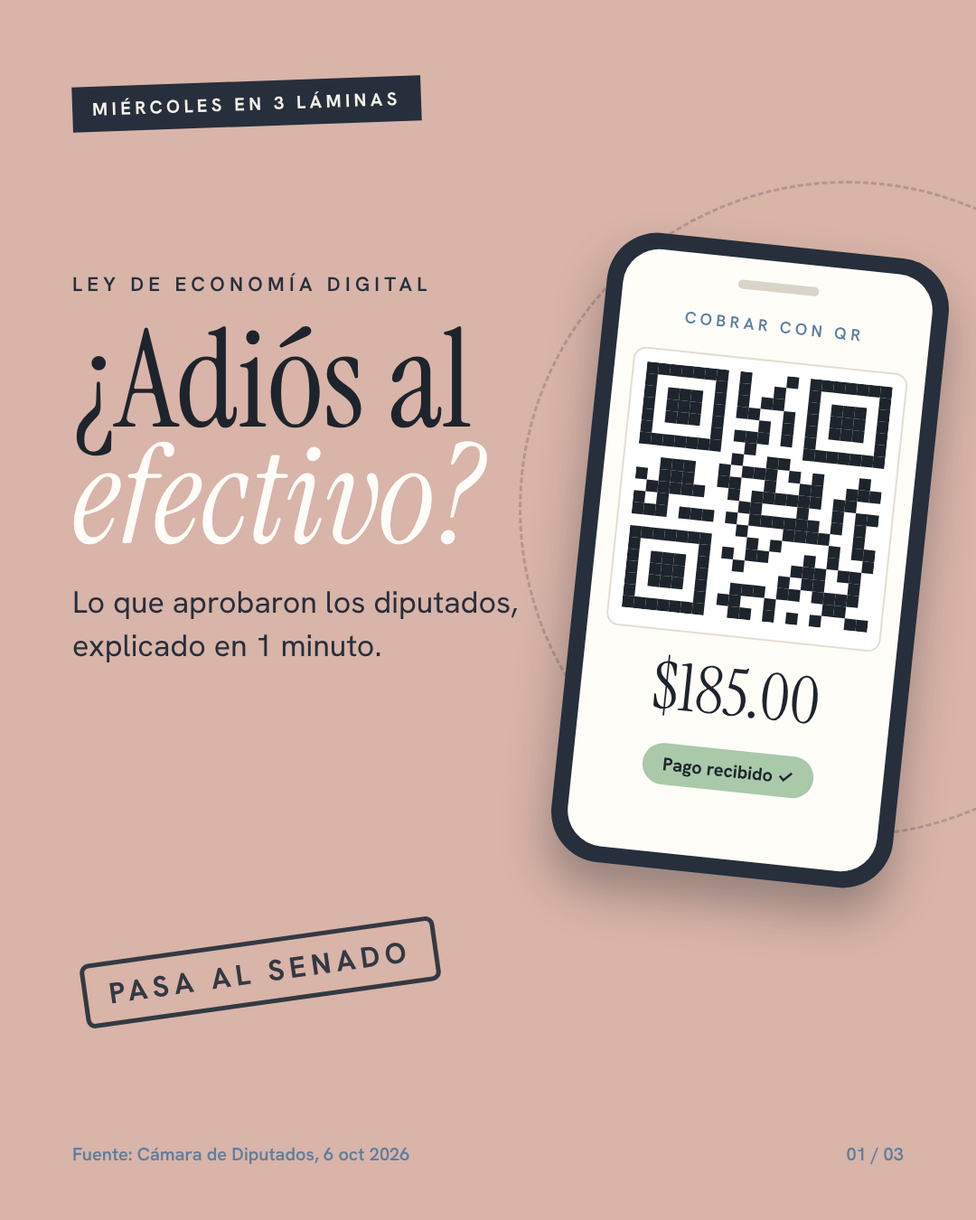
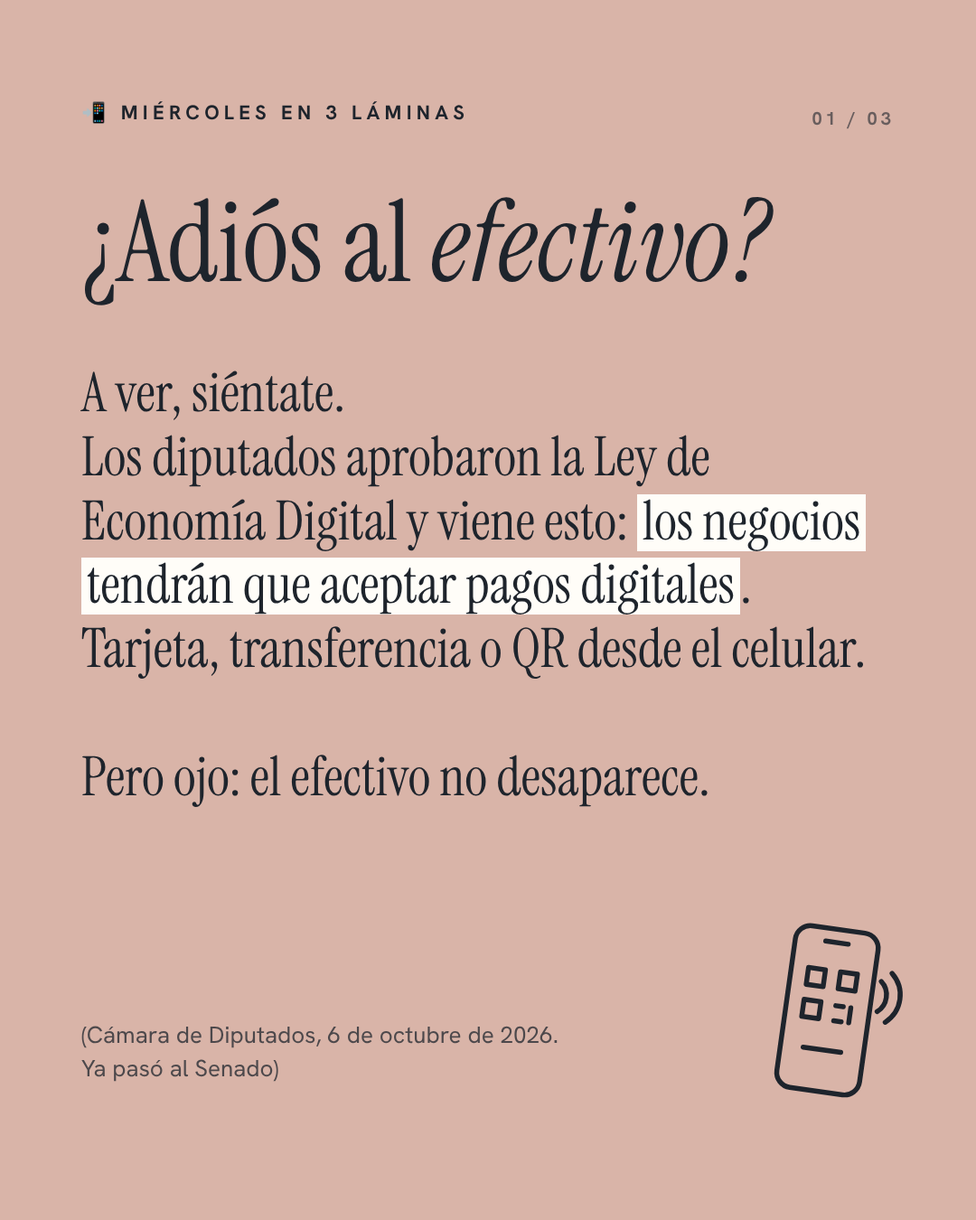
Miércoles en 3 láminas v2: estilo Chismesito, sin fotos
Claude-Session: https://claude.ai/code/session_01J2dboEZNzBYhxcXmwSfC74

diff --git a/recursos/plantillas/Ecd-01.dc.html b/recursos/plantillas/Ecd-01.dc.html
@@ -1,55 +1,31 @@
 <!doctype html>
-<html lang="es">
-<head>
-<meta charset="utf-8">
-<title>Ley de Economía Digital · Portada</title>
-<script src="./support.js"></script>
-</head>
-<body>
+<html lang="es"><head><meta charset="utf-8"><title>Ley de Economía Digital · Gancho</title></head><body>
 <x-dc>
 <helmet>
 <link rel="stylesheet" href="https://fonts.googleapis.com/css2?family=Instrument+Serif:ital@0;1&amp;family=Hanken+Grotesk:wght@400;500;600;700&amp;display=swap">
 <style>
 body{margin:0}
-a{color:inherit}
-.bg-lino{background-color:#EEEAE1;background-image:url(/_blob/6c9eecc651dcae0e49c6e32a51e1513e);background-size:cover}
-.bg-papel{background-color:#F4F1EA;background-image:linear-gradient(rgba(95,126,158,0.10) 1px,transparent 1px),linear-gradient(90deg,rgba(95,126,158,0.10) 1px,transparent 1px),url(/_blob/5fe8c28b9943619ea44f604b391f1f8a);background-size:36px 36px,36px 36px,cover}
-.bg-sarga{background-color:#262F3B;background-image:url(/_blob/dadb3c074dd971422db84d954c63babd);background-size:cover}
-.hoja{background-color:#FFFDF8;background-image:linear-gradient(rgba(255,253,248,0.62),rgba(255,253,248,0.62)),url(/_blob/5fe8c28b9943619ea44f604b391f1f8a);background-size:cover}
-.sticker{filter: drop-shadow(5px 0 0 #fff) drop-shadow(-5px 0 0 #fff) drop-shadow(0 5px 0 #fff) drop-shadow(0 -5px 0 #fff) drop-shadow(0 14px 18px rgba(20,24,30,0.3))}
 .serif{font-family:'Instrument Serif',serif;font-weight:400}
-.kicker{font-size:22px;font-weight:600;letter-spacing:0.24em}
+.hl{background:linear-gradient(transparent 12%, #B7CFE6 12%, #B7CFE6 92%, transparent 92%);padding:0 6px;-webkit-box-decoration-break:clone;box-decoration-break:clone}
+.hlw{background:linear-gradient(transparent 12%, #FFFDF8 12%, #FFFDF8 92%, transparent 92%);padding:0 6px;-webkit-box-decoration-break:clone;box-decoration-break:clone}
+.tag{font-size:22px;font-weight:700;letter-spacing:0.24em}
 </style>
 </helmet>
-<div class="" style="width: 1080px; height: 1350px; position: relative; overflow: hidden; font-family: 'Hanken Grotesk', sans-serif; color: #1E242C; background: #D9B4A8;">
+<div style="width:1080px;height:1350px;position:relative;overflow:hidden;background:#D9B4A8;font-family:'Hanken Grotesk',sans-serif;color:#1E242C">
 
-<div aria-hidden="true" style="position: absolute; right: -220px; top: 200px; width: 720px; height: 720px; border-radius: 50%; border: 3px dashed rgba(38,47,59,0.22)"></div>
-<div style="position: absolute; left: 80px; top: 90px; padding: 12px 22px; background: #262F3B; color: #F4F1EA; font-size: 20px; font-weight: 700; letter-spacing: 0.22em; transform: rotate(-2deg)">MIÉRCOLES EN 3 LÁMINAS</div>
-<div style="position: absolute; left: 80px; top: 300px; width: 520px; display: flex; flex-direction: column; gap: 28px">
-<div class="kicker" style="color: #262F3B">LEY DE ECONOMÍA DIGITAL</div>
-<h1 class="serif" style="margin: 0; font-size: 150px; line-height: 0.86; color: #1E242C">¿Adiós al <em style="font-style: italic; color: #FFFDF8">efectivo?</em></h1>
-<p style="margin: 0; font-size: 34px; line-height: 1.4; color: #262F3B">Lo que aprobaron los diputados, explicado en 1 minuto.</p>
+<div class="tag" style="position:absolute;left:90px;top:110px">📲 MIÉRCOLES EN 3 LÁMINAS</div>
+<div class="serif" style="position:absolute;left:90px;right:90px;top:210px;font-size:124px;line-height:0.95">¿Adiós al <em>efectivo?</em></div>
+<div class="serif" style="position:absolute;left:90px;right:90px;top:400px;font-size:60px;line-height:1.18">
+A ver, siéntate.<br>
+Los diputados aprobaron la Ley de Economía Digital y viene esto: <span class="hlw">los negocios tendrán que aceptar pagos digitales</span>. Tarjeta, transferencia o QR desde el celular.<br><br>
+Pero ojo: el efectivo no desaparece.
 </div>
-<div style="position: absolute; left: 640px; top: 270px; width: 380px; height: 700px; box-sizing: border-box; padding: 18px; border-radius: 56px; background: #262F3B; transform: rotate(6deg); box-shadow: 0 30px 50px rgba(30,36,44,0.35)">
-<div style="height: 100%; border-radius: 40px; background: #FFFDF8; display: flex; flex-direction: column; align-items: center; padding: 60px 26px 0; box-sizing: border-box; gap: 26px">
-<div style="width: 90px; height: 10px; border-radius: 5px; background: #D9D4C8; margin-top: -36px"></div>
-<div class="kicker" style="font-size: 18px; color: #5F7E9E">COBRAR CON QR</div>
-<div style="padding: 14px; background: #fff; border: 2px solid #E4DED2; border-radius: 14px"><svg aria-hidden="true" width="273" height="273" viewBox="0 0 273 273" fill="#1E242C"><rect x="0" y="0" width="13" height="13"/><rect x="13" y="0" width="13" height="13"/><rect x="26" y="0" width="13" height="13"/><rect x="39" y="0" width="13" height="13"/><rect x="52" y="0" width="13" height="13"/><rect x="65" y="0" width="13" height="13"/><rect x="78" y="0" width="13" height="13"/><rect x="0" y="13" width="13" height="13"/><rect x="78" y="13" width="13" height="13"/><rect x="0" y="26" width="13" height="13"/><rect x="26" y="26" width="13" height="13"/><rect x="39" y="26" width="13" height="13"/><rect x="52" y="26" width="13" height="13"/><rect x="78" y="26" width="13" height="13"/><rect x="0" y="39" width="13" height="13"/><rect x="26" y="39" width="13" height="13"/><rect x="39" y="39" width="13" height="13"/><rect x="52" y="39" width="13" height="13"/><rect x="78" y="39" width="13" height="13"/><rect x="0" y="52" width="13" height="13"/><rect x="26" y="52" width="13" height="13"/><rect x="39" y="52" width="13" height="13"/><rect x="52" y="52" width="13" height="13"/><rect x="78" y="52" width="13" height="13"/><rect x="0" y="65" width="13" height="13"/><rect x="78" y="65" width="13" height="13"/><rect x="0" y="78" width="13" height="13"/><rect x="13" y="78" width="13" height="13"/><rect x="26" y="78" width="13" height="13"/><rect x="39" y="78" width="13" height="13"/><rect x="52" y="78" width="13" height="13"/><rect x="65" y="78" width="13" height="13"/><rect x="78" y="78" width="13" height="13"/><rect x="182" y="0" width="13" height="13"/><rect x="195" y="0" width="13" height="13"/><rect x="208" y="0" width="13" height="13"/><rect x="221" y="0" width="13" height="13"/><rect x="234" y="0" width="13" height="13"/><rect x="247" y="0" width="13" height="13"/><rect x="260" y="0" width="13" height="13"/><rect x="182" y="13" width="13" height="13"/><rect x="260" y="13" width="13" height="13"/><rect x="182" y="26" width="13" height="13"/><rect x="208" y="26" width="13" height="13"/><rect x="221" y="26" width="13" height="13"/><rect x="234" y="26" width="13" height="13"/><rect x="260" y="26" width="13" height="13"/><rect x="182" y="39" width="13" height="13"/><rect x="208" y="39" width="13" height="13"/><rect x="221" y="39" width="13" height="13"/><rect x="234" y="39" width="13" height="13"/><rect x="260" y="39" width="13" height="13"/><rect x="182" y="52" width="13" height="13"/><rect x="208" y="52" width="13" height="13"/><rect x="221" y="52" width="13" height="13"/><rect x="234" y="52" width="13" height="13"/><rect x="260" y="52" width="13" height="13"/><rect x="182" y="65" width="13" height="13"/><rect x="260" y="65" width="13" height="13"/><rect x="182" y="78" width="13" height="13"/><rect x="195" y="78" width="13" height="13"/><rect x="208" y="78" width="13" height="13"/><rect x="221" y="78" width="13" height="13"/><rect x="234" y="78" width="13" height="13"/><rect x="247" y="78" width="13" height="13"/><rect x="260" y="78" width="13" height="13"/><rect x="0" y="182" width="13" height="13"/><rect x="13" y="182" width="13" height="13"/><rect x="26" y="182" width="13" height="13"/><rect x="39" y="182" width="13" height="13"/><rect x="52" y="182" width="13" height="13"/><rect x="65" y="182" width="13" height="13"/><rect x="78" y="182" width="13" height="13"/><rect x="0" y="195" width="13" height="13"/><rect x="78" y="195" width="13" height="13"/><rect x="0" y="208" width="13" height="13"/><rect x="26" y="208" width="13" height="13"/><rect x="39" y="208" width="13" height="13"/><rect x="52" y="208" width="13" height="13"/><rect x="78" y="208" width="13" height="13"/><rect x="0" y="221" width="13" height="13"/><rect x="26" y="221" width="13" height="13"/><rect x="39" y="221" width="13" height="13"/><rect x="52" y="221" width="13" height="13"/><rect x="78" y="221" width="13" height="13"/><rect x="0" y="234" width="13" height="13"/><rect x="26" y="234" width="13" height="13"/><rect x="39" y="234" width="13" height="13"/><rect x="52" y="234" width="13" height="13"/><rect x="78" y="234" width="13" height="13"/><rect x="0" y="247" width="13" height="13"/><rect x="78" y="247" width="13" height="13"/><rect x="0" y="260" width="13" height="13"/><rect x="13" y="260" width="13" height="13"/><rect x="26" y="260" width="13" height="13"/><rect x="39" y="260" width="13" height="13"/><rect x="52" y="260" width="13" height="13"/><rect x="65" y="260" width="13" height="13"/><rect x="78" y="260" width="13" height="13"/><rect x="104" y="0" width="13" height="13"/><rect x="156" y="0" width="13" height="13"/><rect x="104" y="13" width="13" height="13"/><rect x="143" y="13" width="13" height="13"/><rect x="104" y="26" width="13" height="13"/><rect x="130" y="26" width="13" height="13"/><rect x="143" y="26" width="13" height="13"/><rect x="104" y="39" width="13" height="13"/><rect x="117" y="39" width="13" height="13"/><rect x="156" y="39" width="13" height="13"/><rect x="130" y="52" width="13" height="13"/><rect x="156" y="52" width="13" height="13"/><rect x="104" y="65" width="13" height="13"/><rect x="117" y="65" width="13" height="13"/><rect x="130" y="65" width="13" height="13"/><rect x="156" y="65" width="13" height="13"/><rect x="117" y="78" width="13" height="13"/><rect x="104" y="91" width="13" height="13"/><rect x="143" y="91" width="13" height="13"/><rect x="156" y="91" width="13" height="13"/><rect x="26" y="104" width="13" height="13"/><rect x="39" y="104" width="13" height="13"/><rect x="52" y="104" width="13" height="13"/><rect x="91" y="104" width="13" height="13"/><rect x="117" y="104" width="13" height="13"/><rect x="130" y="104" width="13" height="13"/><rect x="143" y="104" width="13" height="13"/><rect x="169" y="104" width="13" height="13"/><rect x="195" y="104" width="13" height="13"/><rect x="247" y="104" width="13" height="13"/><rect x="0" y="117" width="13" height="13"/><rect x="26" y="117" width="13" height="13"/><rect x="39" y="117" width="13" height="13"/><rect x="52" y="117" width="13" height="13"/><rect x="91" y="117" width="13" height="13"/><rect x="104" y="117" width="13" height="13"/><rect x="143" y="117" width="13" height="13"/><rect x="182" y="117" width="13" height="13"/><rect x="195" y="117" width="13" height="13"/><rect x="234" y="117" width="13" height="13"/><rect x="247" y="117" width="13" height="13"/><rect x="260" y="117" width="13" height="13"/><rect x="13" y="130" width="13" height="13"/><rect x="26" y="130" width="13" height="13"/><rect x="39" y="130" width="13" height="13"/><rect x="52" y="130" width="13" height="13"/><rect x="65" y="130" width="13" height="13"/><rect x="104" y="130" width="13" height="13"/><rect x="130" y="130" width="13" height="13"/><rect x="143" y="130" width="13" height="13"/><rect x="156" y="130" width="13" height="13"/><rect x="169" y="130" width="13" height="13"/><rect x="182" y="130" width="13" height="13"/><rect x="195" y="130" width="13" height="13"/><rect x="221" y="130" width="13" height="13"/><rect x="234" y="130" width="13" height="13"/><rect x="0" y="143" width="13" height="13"/><rect x="26" y="143" width="13" height="13"/><rect x="117" y="143" width="13" height="13"/><rect x="130" y="143" width="13" height="13"/><rect x="182" y="143" width="13" height="13"/><rect x="221" y="143" width="13" height="13"/><rect x="247" y="143" width="13" height="13"/><rect x="260" y="143" width="13" height="13"/><rect x="0" y="156" width="13" height="13"/><rect x="13" y="156" width="13" height="13"/><rect x="26" y="156" width="13" height="13"/><rect x="52" y="156" width="13" height="13"/><rect x="65" y="156" width="13" height="13"/><rect x="78" y="156" width="13" height="13"/><rect x="104" y="156" width="13" height="13"/><rect x="130" y="156" width="13" height="13"/><rect x="143" y="156" width="13" height="13"/><rect x="156" y="156" width="13" height="13"/><rect x="169" y="156" width="13" height="13"/><rect x="182" y="156" width="13" height="13"/><rect x="195" y="156" width="13" height="13"/><rect x="221" y="156" width="13" height="13"/><rect x="247" y="156" width="13" height="13"/><rect x="117" y="169" width="13" height="13"/><rect x="169" y="169" width="13" height="13"/><rect x="182" y="169" width="13" height="13"/><rect x="195" y="169" width="13" height="13"/><rect x="208" y="169" width="13" height="13"/><rect x="247" y="169" width="13" height="13"/><rect x="130" y="182" width="13" height="13"/><rect x="156" y="182" width="13" height="13"/><rect x="221" y="182" width="13" height="13"/><rect x="247" y="182" width="13" height="13"/><rect x="260" y="182" width="13" height="13"/><rect x="104" y="195" width="13" height="13"/><rect x="130" y="195" width="13" height="13"/><rect x="143" y="195" width="13" height="13"/><rect x="195" y="195" width="13" height="13"/><rect x="221" y="195" width="13" height="13"/><rect x="260" y="195" width="13" height="13"/><rect x="117" y="208" width="13" height="13"/><rect x="182" y="208" width="13" height="13"/><rect x="195" y="208" width="13" height="13"/><rect x="208" y="208" width="13" height="13"/><rect x="234" y="208" width="13" height="13"/><rect x="247" y="208" width="13" height="13"/><rect x="169" y="221" width="13" height="13"/><rect x="195" y="221" width="13" height="13"/><rect x="208" y="221" width="13" height="13"/><rect x="247" y="221" width="13" height="13"/><rect x="117" y="234" width="13" height="13"/><rect x="130" y="234" width="13" height="13"/><rect x="143" y="234" width="13" height="13"/><rect x="169" y="234" width="13" height="13"/><rect x="182" y="234" width="13" height="13"/><rect x="208" y="234" width="13" height="13"/><rect x="221" y="234" width="13" height="13"/><rect x="234" y="234" width="13" height="13"/><rect x="247" y="234" width="13" height="13"/><rect x="104" y="247" width="13" height="13"/><rect x="117" y="247" width="13" height="13"/><rect x="156" y="247" width="13" height="13"/><rect x="221" y="247" width="13" height="13"/><rect x="234" y="247" width="13" height="13"/><rect x="117" y="260" width="13" height="13"/><rect x="130" y="260" width="13" height="13"/><rect x="156" y="260" width="13" height="13"/><rect x="182" y="260" width="13" height="13"/><rect x="208" y="260" width="13" height="13"/><rect x="247" y="260" width="13" height="13"/><rect x="260" y="260" width="13" height="13"/></svg></div>
-<div class="serif" style="font-size: 72px; line-height: 1; color: #1E242C">$185.00</div>
-<div style="padding: 10px 22px; border-radius: 30px; background: #A9C9A9; color: #1E242C; font-size: 20px; font-weight: 700">Pago recibido ✓</div>
-</div>
-</div>
-<div style="position: absolute; left: 90px; top: 1040px; padding: 10px 24px; border: 5px solid #262F3B; color: #262F3B; font-size: 32px; font-weight: 700; letter-spacing: 0.18em; border-radius: 10px; transform: rotate(-8deg); opacity: 0.92">PASA AL SENADO</div>
-<div style="position: absolute; left: 80px; right: 80px; bottom: 60px; display: flex; justify-content: space-between; font-size: 20px; font-weight: 600; color: #5F7E9E"><span>Fuente: Cámara de Diputados, 6 oct 2026</span><span>01 / 03</span></div>
+<div style="position:absolute;left:90px;bottom:150px;font-size:26px;line-height:1.4;opacity:0.75">(Cámara de Diputados, 6 de octubre de 2026.<br>Ya pasó al Senado)</div>
+<div style="position:absolute;right:80px;bottom:120px;transform:rotate(8deg)"><svg aria-hidden="true" width="170" height="210" viewBox="0 0 80 100" fill="none" stroke="#1E242C" stroke-width="2.6" stroke-linecap="round" stroke-linejoin="round"><rect x="18" y="6" width="44" height="86" rx="8"/><path d="M34 13h12"/><rect x="27" y="28" width="9" height="9"/><rect x="44" y="28" width="9" height="9"/><rect x="27" y="45" width="9" height="9"/><path d="M44 46h4M52 46v8M44 54h4"/><path d="M30 70h20"/><path d="M66 30c5 4 5 12 0 16M71 25c8 7 8 19 0 26"/></svg></div>
+<div style="position:absolute;right:90px;top:118px;font-size:20px;letter-spacing:0.2em;font-weight:700;opacity:0.6">01 / 03</div>
 
 </div>
 </x-dc>
-<script type="text/x-dc" data-dc-script data-props='{"marker":{"editor":"color","default":"#B7CFE6","options":["#B7CFE6","#A9C9A9","#D9B4A8"]},"$preview":{"width":1080,"height":1350}}'>
-class Component extends DCLogic {
-renderVals() {
-return { marker: this.props.marker ?? '#B7CFE6' };
-}
-}
-</script>
-</body>
-</html>
+<script type="text/x-dc" data-dc-script data-props='{"$preview":{"width":1080,"height":1350}}'>
+class Component extends DCLogic { renderVals(){ return {}; } }
+</script></body></html>

diff --git a/recursos/plantillas/Ecd-03.dc.html b/recursos/plantillas/Ecd-03.dc.html
@@ -1,54 +1,32 @@
 <!doctype html>
-<html lang="es">
-<head>
-<meta charset="utf-8">
-<title>Cierre</title>
-<script src="./support.js"></script>
-</head>
-<body>
+<html lang="es"><head><meta charset="utf-8"><title>Ley de Economía Digital · Remate</title></head><body>
 <x-dc>
 <helmet>
 <link rel="stylesheet" href="https://fonts.googleapis.com/css2?family=Instrument+Serif:ital@0;1&amp;family=Hanken+Grotesk:wght@400;500;600;700&amp;display=swap">
 <style>
 body{margin:0}
-a{color:inherit}
-.bg-lino{background-color:#EEEAE1;background-image:url(/_blob/6c9eecc651dcae0e49c6e32a51e1513e);background-size:cover}
-.bg-papel{background-color:#F4F1EA;background-image:linear-gradient(rgba(95,126,158,0.10) 1px,transparent 1px),linear-gradient(90deg,rgba(95,126,158,0.10) 1px,transparent 1px),url(/_blob/5fe8c28b9943619ea44f604b391f1f8a);background-size:36px 36px,36px 36px,cover}
-.bg-sarga{background-color:#262F3B;background-image:url(/_blob/dadb3c074dd971422db84d954c63babd);background-size:cover}
-.hoja{background-color:#FFFDF8;background-image:linear-gradient(rgba(255,253,248,0.62),rgba(255,253,248,0.62)),url(/_blob/5fe8c28b9943619ea44f604b391f1f8a);background-size:cover}
-.sticker{filter: drop-shadow(5px 0 0 #fff) drop-shadow(-5px 0 0 #fff) drop-shadow(0 5px 0 #fff) drop-shadow(0 -5px 0 #fff) drop-shadow(0 14px 18px rgba(20,24,30,0.3))}
 .serif{font-family:'Instrument Serif',serif;font-weight:400}
-.kicker{font-size:22px;font-weight:600;letter-spacing:0.24em}
+.hl{background:linear-gradient(transparent 12%, #B7CFE6 12%, #B7CFE6 92%, transparent 92%);padding:0 6px;-webkit-box-decoration-break:clone;box-decoration-break:clone}
+.hlw{background:linear-gradient(transparent 12%, #FFFDF8 12%, #FFFDF8 92%, transparent 92%);padding:0 6px;-webkit-box-decoration-break:clone;box-decoration-break:clone}
+.tag{font-size:22px;font-weight:700;letter-spacing:0.24em}
 </style>
 </helmet>
-<div class="bg-sarga" style="width: 1080px; height: 1350px; position: relative; overflow: hidden; font-family: 'Hanken Grotesk', sans-serif; color: #F4F1EA;">
+<div style="width:1080px;height:1350px;position:relative;overflow:hidden;background:#A9C9A9;font-family:'Hanken Grotesk',sans-serif;color:#1E242C">
 
-<div style="position: absolute; left: 0; top: 0; width: 1080px; height: 520px; overflow: hidden">
-<img src="/_blob/57c215dc1238a66dd8701b45fb2c7983" alt="Torres de Monterrey con la Sierra Madre al fondo" style="display: block; width: 100%; height: 100%; object-fit: cover; object-position: 50% 40%">
-<div aria-hidden="true" style="position: absolute; inset: 0; background: linear-gradient(180deg, rgba(38,47,59,0) 45%, rgba(38,47,59,1) 100%)"></div>
+<div class="serif" style="position:absolute;left:90px;right:90px;top:140px;font-size:66px;line-height:1.16">
+¿Y a ti en qué te pega?<br><br>
+Si cobras en digital, <span class="hlw">cada peso queda registrado en tu banco</span>.<br><br>
+Tu facturación y tus declaraciones tienen que cuadrar con lo que cobras. Mejor ordénate desde ahora.
 </div>
-<div style="position: absolute; left: 60px; top: 60px; padding: 12px 22px; background: rgba(244,241,234,0.92); font-size: 20px; font-weight: 700; letter-spacing: 0.2em; color: #2B3542; transform: rotate(-2deg)">DESDE MONTERREY</div>
-<div aria-hidden="true" style="position: absolute; right: 30px; top: 790px; width: 470px; height: 470px; border-radius: 50%; background: #A9C9A9"></div>
-<img src="/_blob/25bcb8fe94907e94b0640cf81bd101a6" alt="Bernardo Latorre, GGTZ Consultores" style="position: absolute; right: -30px; bottom: 0; width: 540px; height: auto; filter: drop-shadow(0 14px 24px rgba(0,0,0,0.35))">
-<div style="position: relative; height: 100%; box-sizing: border-box; padding: 470px 80px 64px; display: flex; flex-direction: column; gap: 30px">
-<h2 class="serif" style="margin: 0; font-size: 100px; line-height: 0.92">¿Tu negocio ya<br><em style="font-style: italic; color: #B7CFE6">cobra en digital?</em></h2>
-<p style="margin: 0; max-width: 470px; font-size: 30px; line-height: 1.45; color: rgba(244,241,234,0.88)">Cada cobro digital queda registrado en tu banco. Te ayudo a que tu facturación y tu contabilidad cuadren con lo que cobras.</p>
-<div style="align-self: flex-start; display: inline-flex; align-items: center; gap: 18px; padding: 26px 40px; background: #F4F1EA; color: #262F3B; font-size: 28px; font-weight: 700; border-radius: 4px">Agenda tu asesoría
-<svg aria-hidden="true" width="30" height="20" viewBox="0 0 40 24" fill="none" stroke="#262F3B" stroke-width="2.4"><path d="M2 12h34M26 3l10 9-10 9"></path></svg></div>
-<div style="max-width: 440px; padding: 22px 28px; background: rgba(244,241,234,0.08); border: 1px solid rgba(244,241,234,0.22); transform: rotate(-1.5deg); font-size: 25px; line-height: 1.4"><b>Guárdalo</b> y compártelo con alguien que todavía solo acepta efectivo.</div>
-<div style="margin-top: auto; display: flex; flex-direction: column; gap: 8px; font-size: 24px; font-weight: 500">
-<span>81 2758 0277 · @bernardolatorre.fiscal</span>
-<span class="serif" style="font-size: 40px; letter-spacing: 0.04em">GGTZ <span style="font-family: 'Hanken Grotesk', sans-serif; font-size: 16px; letter-spacing: 0.3em; color: #B7CFE6">CONSULTORES</span></span>
+<div style="position:absolute;left:90px;right:330px;bottom:190px;font-size:30px;line-height:1.45">
+Guárdalo para cuando salga en el DOF.<br>
+¿Dudas con tu negocio? <b>81 2758 0277</b>
 </div>
-</div>
+<div style="position:absolute;right:90px;bottom:160px;transform:rotate(-6deg)"><svg aria-hidden="true" width="170" height="170" viewBox="0 0 100 100" fill="none" stroke="#1E242C" stroke-width="2.6" stroke-linecap="round" stroke-linejoin="round"><circle cx="42" cy="42" r="24"/><path d="M60 60l22 22"/><path d="M32 36c3-6 9-9 15-8"/></svg></div>
+<div style="position:absolute;left:90px;right:90px;bottom:70px;display:flex;justify-content:space-between;font-size:20px;letter-spacing:0.2em;font-weight:700;color:#2B3542"><span>@BERNARDOLATORRE.FISCAL · GGTZ CONSULTORES</span><span>03 / 03</span></div>
+
 </div>
 </x-dc>
-<script type="text/x-dc" data-dc-script data-props='{"marker":{"editor":"color","default":"#B7CFE6","options":["#B7CFE6","#A9C9A9","#D9B4A8"]},"$preview":{"width":1080,"height":1350}}'>
-class Component extends DCLogic {
-renderVals() {
-return { marker: this.props.marker ?? '#B7CFE6' };
-}
-}
-</script>
-</body>
-</html>
+<script type="text/x-dc" data-dc-script data-props='{"$preview":{"width":1080,"height":1350}}'>
+class Component extends DCLogic { renderVals(){ return {}; } }
+</script></body></html>

diff --git a/recursos/plantillas/Ecd-02.dc.html b/recursos/plantillas/Ecd-02.dc.html
@@ -1,48 +1,34 @@
 <!doctype html>
-<html lang="es">
-<head>
-<meta charset="utf-8">
-<title>Ley de Economía Digital · Qué cambia</title>
-<script src="./support.js"></script>
-</head>
-<body>
+<html lang="es"><head><meta charset="utf-8"><title>Ley de Economía Digital · Detalle</title></head><body>
 <x-dc>
 <helmet>
 <link rel="stylesheet" href="https://fonts.googleapis.com/css2?family=Instrument+Serif:ital@0;1&amp;family=Hanken+Grotesk:wght@400;500;600;700&amp;display=swap">
 <style>
 body{margin:0}
-a{color:inherit}
-.bg-lino{background-color:#EEEAE1;background-image:url(/_blob/6c9eecc651dcae0e49c6e32a51e1513e);background-size:cover}
-.bg-papel{background-color:#F4F1EA;background-image:linear-gradient(rgba(95,126,158,0.10) 1px,transparent 1px),linear-gradient(90deg,rgba(95,126,158,0.10) 1px,transparent 1px),url(/_blob/5fe8c28b9943619ea44f604b391f1f8a);background-size:36px 36px,36px 36px,cover}
-.bg-sarga{background-color:#262F3B;background-image:url(/_blob/dadb3c074dd971422db84d954c63babd);background-size:cover}
-.hoja{background-color:#FFFDF8;background-image:linear-gradient(rgba(255,253,248,0.62),rgba(255,253,248,0.62)),url(/_blob/5fe8c28b9943619ea44f604b391f1f8a);background-size:cover}
-.sticker{filter: drop-shadow(5px 0 0 #fff) drop-shadow(-5px 0 0 #fff) drop-shadow(0 5px 0 #fff) drop-shadow(0 -5px 0 #fff) drop-shadow(0 14px 18px rgba(20,24,30,0.3))}
 .serif{font-family:'Instrument Serif',serif;font-weight:400}
-.kicker{font-size:22px;font-weight:600;letter-spacing:0.24em}
+.hl{background:linear-gradient(transparent 12%, #B7CFE6 12%, #B7CFE6 92%, transparent 92%);padding:0 6px;-webkit-box-decoration-break:clone;box-decoration-break:clone}
+.hlw{background:linear-gradient(transparent 12%, #FFFDF8 12%, #FFFDF8 92%, transparent 92%);padding:0 6px;-webkit-box-decoration-break:clone;box-decoration-break:clone}
+.tag{font-size:22px;font-weight:700;letter-spacing:0.24em}
 </style>
 </helmet>
-<div class="bg-sarga" style="width: 1080px; height: 1350px; position: relative; overflow: hidden; font-family: 'Hanken Grotesk', sans-serif; color: #F4F1EA;">
+<div style="width:1080px;height:1350px;position:relative;overflow:hidden;background:#FFFDF8;font-family:'Hanken Grotesk',sans-serif;color:#1E242C">
 
-<div style="position: absolute; left: 80px; right: 80px; top: 100px; display: flex; flex-direction: column; gap: 56px">
-<div style="display: flex; flex-direction: column; gap: 18px">
-<div class="kicker" style="color: #B7CFE6">LO QUE CAMBIA</div>
-<h2 class="serif" style="margin: 0; font-size: 92px; line-height: 0.92">El efectivo <em style="font-style: italic; color: #B7CFE6">no desaparece</em>, pero…</h2>
+<div class="serif" style="position:absolute;left:90px;right:90px;top:120px;font-size:64px;line-height:1.16">
+Y lo que casi nadie te dice:<br>
+<span class="hl">Hacienda va a definir en qué sectores el pago digital podrá ser la única opción.</span><br>
+Va a ser gradual, no de golpe.
 </div>
-<div style="display: flex; gap: 30px; align-items: flex-start"><div class="serif" style="flex: 0 0 auto; width: 90px; font-size: 110px; line-height: 0.8; color: #B7CFE6">1</div><div style="display: flex; flex-direction: column; gap: 10px"><div class="serif" style="font-size: 54px; line-height: 1">Cobrar en digital</div><div style="font-size: 29px; line-height: 1.4; color: rgba(244,241,234,0.82)">Negocios y gobierno tendrán que aceptar pagos electrónicos: tarjeta, transferencia o QR desde el celular.</div></div></div>
-<div style="display: flex; gap: 30px; align-items: flex-start"><div class="serif" style="flex: 0 0 auto; width: 90px; font-size: 110px; line-height: 0.8; color: #B7CFE6">2</div><div style="display: flex; flex-direction: column; gap: 10px"><div class="serif" style="font-size: 54px; line-height: 1">Sectores solo digitales</div><div style="font-size: 29px; line-height: 1.4; color: rgba(244,241,234,0.82)">Hacienda definirá en qué sectores el pago digital podrá ser la única opción. Será gradual.</div></div></div>
-<div style="display: flex; gap: 30px; align-items: flex-start"><div class="serif" style="flex: 0 0 auto; width: 90px; font-size: 110px; line-height: 0.8; color: #B7CFE6">3</div><div style="display: flex; flex-direction: column; gap: 10px"><div class="serif" style="font-size: 54px; line-height: 1">Trámites con CURP digital</div><div style="font-size: 29px; line-height: 1.4; color: rgba(244,241,234,0.82)">Podrás abrir cuentas y productos financieros en línea con tu CURP digital.</div></div></div>
+<div style="position:absolute;left:90px;right:90px;top:540px;padding:38px 42px;background:#fff;box-shadow:0 6px 22px rgba(30,36,44,0.12);font-size:30px;line-height:1.5">
+<div style="font-size:22px;color:#5F7E9E;margin-bottom:16px">Lo demás · en corto</div>
+<div>• Negocios y gobierno tendrán que avisarte <span class="hl">qué formas de pago digital aceptan</span>.</div>
+<div style="margin-top:12px">• Si se cae el sistema, se vale pagar en efectivo o con cheque.</div>
+<div style="margin-top:12px">• Podrás abrir cuentas en línea con tu CURP digital.</div>
+<div style="margin-top:12px">• Todavía no es ley: falta el Senado y que se publique en el DOF.</div>
 </div>
-<div style="position: absolute; left: 80px; right: 80px; bottom: 130px; padding: 24px 30px; background: #D9B4A8; color: #1E242C; font-size: 27px; line-height: 1.4; transform: rotate(-1deg)"><b>Ojo:</b> todavía no es ley. Falta que la apruebe el Senado y se publique en el DOF.</div>
-<div style="position: absolute; left: 80px; right: 80px; bottom: 60px; display: flex; justify-content: space-between; font-size: 20px; font-weight: 600; color: rgba(244,241,234,0.6)"><span>Fuente: Cámara de Diputados, 6 oct 2026</span><span>02 / 03</span></div>
+<div style="position:absolute;left:90px;right:90px;bottom:70px;display:flex;justify-content:space-between;font-size:20px;letter-spacing:0.2em;font-weight:700;color:#5F7E9E"><span>@BERNARDOLATORRE.FISCAL · GGTZ CONSULTORES</span><span>02 / 03</span></div>
 
 </div>
 </x-dc>
-<script type="text/x-dc" data-dc-script data-props='{"marker":{"editor":"color","default":"#B7CFE6","options":["#B7CFE6","#A9C9A9","#D9B4A8"]},"$preview":{"width":1080,"height":1350}}'>
-class Component extends DCLogic {
-renderVals() {
-return { marker: this.props.marker ?? '#B7CFE6' };
-}
-}
-</script>
-</body>
-</html>
+<script type="text/x-dc" data-dc-script data-props='{"$preview":{"width":1080,"height":1350}}'>
+class Component extends DCLogic { renderVals(){ return {}; } }
+</script></body></html>

diff --git a/recursos/plantillas/_gen_economia_digital.py b/recursos/plantillas/_gen_economia_digital.py
@@ -1,81 +1,92 @@
-# Miércoles en 3 láminas: Ley de Economía Digital (Ecd-*)
-import importlib.util, pathlib, io, contextlib, random
+# Miércoles en 3 láminas: Ley de Economía Digital (Ecd-*), v2 con estilo "Chismesito":
+# fondos lisos, texto corrido en serif, marcador, recorte de hoja blanca y garabato de línea.
+# Sin fotos, sin texturas, sin foto de Berny.
+import pathlib
 HERE = pathlib.Path(__file__).parent
-spec = importlib.util.spec_from_file_location("base", HERE / "_gen_oct20_22.py")
-base = importlib.util.module_from_spec(spec)
-with contextlib.redirect_stdout(io.StringIO()):
-    spec.loader.exec_module(base)
-page, B, foot, sello, tape, cierre = base.page, base.B, base.foot, base.sello, base.tape, base.cierre
 TOT = 3
-SRC = "Fuente: Cámara de Diputados, 6 oct 2026"
 
-def qr(size=21, cell=14):
-    rnd = random.Random(14)
-    cells = []
-    def finder(cx, cy):
-        for y in range(7):
-            for x in range(7):
-                on = x in (0, 6) or y in (0, 6) or (2 <= x <= 4 and 2 <= y <= 4)
-                if on: cells.append((cx + x, cy + y))
-    finder(0, 0); finder(size - 7, 0); finder(0, size - 7)
-    for y in range(size):
-        for x in range(size):
-            if (x < 8 and y < 8) or (x >= size - 8 and y < 8) or (x < 8 and y >= size - 8):
-                continue
-            if rnd.random() < 0.48: cells.append((x, y))
-    rects = "".join(f'<rect x="{x*cell}" y="{y*cell}" width="{cell}" height="{cell}"/>' for x, y in cells)
-    s = size * cell
-    return f'<svg aria-hidden="true" width="{s}" height="{s}" viewBox="0 0 {s} {s}" fill="#1E242C">{rects}</svg>'
+def page(title, bg, inner):
+    return f"""<!doctype html>
+<html lang="es"><head><meta charset="utf-8"><title>{title}</title></head><body>
+<x-dc>
+<helmet>
+<link rel="stylesheet" href="https://fonts.googleapis.com/css2?family=Instrument+Serif:ital@0;1&amp;family=Hanken+Grotesk:wght@400;500;600;700&amp;display=swap">
+<style>
+body{{margin:0}}
+.serif{{font-family:'Instrument Serif',serif;font-weight:400}}
+.hl{{background:linear-gradient(transparent 12%, #B7CFE6 12%, #B7CFE6 92%, transparent 92%);padding:0 6px;-webkit-box-decoration-break:clone;box-decoration-break:clone}}
+.hlw{{background:linear-gradient(transparent 12%, #FFFDF8 12%, #FFFDF8 92%, transparent 92%);padding:0 6px;-webkit-box-decoration-break:clone;box-decoration-break:clone}}
+.tag{{font-size:22px;font-weight:700;letter-spacing:0.24em}}
+</style>
+</helmet>
+<div style="width:1080px;height:1350px;position:relative;overflow:hidden;background:{bg};font-family:'Hanken Grotesk',sans-serif;color:#1E242C">
+{inner}
+</div>
+</x-dc>
+<script type="text/x-dc" data-dc-script data-props='{{"$preview":{{"width":1080,"height":1350}}}}'>
+class Component extends DCLogic {{ renderVals(){{ return {{}}; }} }}
+</script></body></html>
+"""
 
-# ---------- 01 Portada: fondo terracota liso, celular con QR, título mitad izquierda ----------
+def pie(n, color="#5F7E9E"):
+    return (f'<div style="position:absolute;left:90px;right:90px;bottom:70px;display:flex;justify-content:space-between;'
+            f'font-size:20px;letter-spacing:0.2em;font-weight:700;color:{color}"><span>@BERNARDOLATORRE.FISCAL · GGTZ CONSULTORES</span><span>{n:02d} / {TOT:02d}</span></div>')
+
+STROKE = 'fill="none" stroke="#1E242C" stroke-width="2.6" stroke-linecap="round" stroke-linejoin="round"'
+CEL = (f'<svg aria-hidden="true" width="170" height="210" viewBox="0 0 80 100" {STROKE}>'
+       '<rect x="18" y="6" width="44" height="86" rx="8"/><path d="M34 13h12"/>'
+       '<rect x="27" y="28" width="9" height="9"/><rect x="44" y="28" width="9" height="9"/><rect x="27" y="45" width="9" height="9"/>'
+       '<path d="M44 46h4M52 46v8M44 54h4"/><path d="M30 70h20"/><path d="M66 30c5 4 5 12 0 16M71 25c8 7 8 19 0 26"/></svg>')
+LUPA = (f'<svg aria-hidden="true" width="170" height="170" viewBox="0 0 100 100" {STROKE}>'
+        '<circle cx="42" cy="42" r="24"/><path d="M60 60l22 22"/><path d="M32 36c3-6 9-9 15-8"/></svg>')
+
+# ---------- 01 Gancho: terracota liso ----------
 p1 = f"""
-<div aria-hidden="true" style="position: absolute; right: -220px; top: 200px; width: 720px; height: 720px; border-radius: 50%; border: 3px dashed rgba(38,47,59,0.22)"></div>
-<div style="position: absolute; left: 80px; top: 90px; padding: 12px 22px; background: #262F3B; color: #F4F1EA; font-size: 20px; font-weight: 700; letter-spacing: 0.22em; transform: rotate(-2deg)">MIÉRCOLES EN 3 LÁMINAS</div>
-<div style="position: absolute; left: 80px; top: 300px; width: 520px; display: flex; flex-direction: column; gap: 28px">
-<div class="kicker" style="color: #262F3B">LEY DE ECONOMÍA DIGITAL</div>
-<h1 class="serif" style="margin: 0; font-size: 150px; line-height: 0.86; color: #1E242C">¿Adiós al <em style="font-style: italic; color: #FFFDF8">efectivo?</em></h1>
-<p style="margin: 0; font-size: 34px; line-height: 1.4; color: #262F3B">Lo que aprobaron los diputados, explicado en 1 minuto.</p>
+<div class="tag" style="position:absolute;left:90px;top:110px">📲 MIÉRCOLES EN 3 LÁMINAS</div>
+<div class="serif" style="position:absolute;left:90px;right:90px;top:210px;font-size:124px;line-height:0.95">¿Adiós al <em>efectivo?</em></div>
+<div class="serif" style="position:absolute;left:90px;right:90px;top:400px;font-size:60px;line-height:1.18">
+A ver, siéntate.<br>
+Los diputados aprobaron la Ley de Economía Digital y viene esto: <span class="hlw">los negocios tendrán que aceptar pagos digitales</span>. Tarjeta, transferencia o QR desde el celular.<br><br>
+Pero ojo: el efectivo no desaparece.
 </div>
-<div style="position: absolute; left: 640px; top: 270px; width: 380px; height: 700px; box-sizing: border-box; padding: 18px; border-radius: 56px; background: #262F3B; transform: rotate(6deg); box-shadow: 0 30px 50px rgba(30,36,44,0.35)">
-<div style="height: 100%; border-radius: 40px; background: #FFFDF8; display: flex; flex-direction: column; align-items: center; padding: 60px 26px 0; box-sizing: border-box; gap: 26px">
-<div style="width: 90px; height: 10px; border-radius: 5px; background: #D9D4C8; margin-top: -36px"></div>
-<div class="kicker" style="font-size: 18px; color: #5F7E9E">COBRAR CON QR</div>
-<div style="padding: 14px; background: #fff; border: 2px solid #E4DED2; border-radius: 14px">{qr(21, 13)}</div>
-<div class="serif" style="font-size: 72px; line-height: 1; color: #1E242C">$185.00</div>
-<div style="padding: 10px 22px; border-radius: 30px; background: #A9C9A9; color: #1E242C; font-size: 20px; font-weight: 700">Pago recibido ✓</div>
-</div>
-</div>
-{sello('PASA AL SENADO', '#262F3B', -8, 90, 1040, 32)}
-{foot(SRC, 1, TOT)}
+<div style="position:absolute;left:90px;bottom:150px;font-size:26px;line-height:1.4;opacity:0.75">(Cámara de Diputados, 6 de octubre de 2026.<br>Ya pasó al Senado)</div>
+<div style="position:absolute;right:80px;bottom:120px;transform:rotate(8deg)">{CEL}</div>
+<div style="position:absolute;right:90px;top:118px;font-size:20px;letter-spacing:0.2em;font-weight:700;opacity:0.6">01 / 03</div>
 """
 
-# ---------- 02 Qué cambia: sarga oscura con 3 puntos ----------
-def punto(n, t, d):
-    return (f'<div style="display: flex; gap: 30px; align-items: flex-start">'
-            f'<div class="serif" style="flex: 0 0 auto; width: 90px; font-size: 110px; line-height: 0.8; color: #B7CFE6">{n}</div>'
-            f'<div style="display: flex; flex-direction: column; gap: 10px"><div class="serif" style="font-size: 54px; line-height: 1">{t}</div>'
-            f'<div style="font-size: 29px; line-height: 1.4; color: rgba(244,241,234,0.82)">{d}</div></div></div>')
-
+# ---------- 02 Detalle: marfil + recorte de hoja ----------
 p2 = f"""
-<div style="position: absolute; left: 80px; right: 80px; top: 100px; display: flex; flex-direction: column; gap: 56px">
-<div style="display: flex; flex-direction: column; gap: 18px">
-<div class="kicker" style="color: #B7CFE6">LO QUE CAMBIA</div>
-<h2 class="serif" style="margin: 0; font-size: 92px; line-height: 0.92">El efectivo <em style="font-style: italic; color: #B7CFE6">no desaparece</em>, pero…</h2>
+<div class="serif" style="position:absolute;left:90px;right:90px;top:120px;font-size:64px;line-height:1.16">
+Y lo que casi nadie te dice:<br>
+<span class="hl">Hacienda va a definir en qué sectores el pago digital podrá ser la única opción.</span><br>
+Va a ser gradual, no de golpe.
 </div>
-{punto(1, 'Cobrar en digital', 'Negocios y gobierno tendrán que aceptar pagos electrónicos: tarjeta, transferencia o QR desde el celular.')}
-{punto(2, 'Sectores solo digitales', 'Hacienda definirá en qué sectores el pago digital podrá ser la única opción. Será gradual.')}
-{punto(3, 'Trámites con CURP digital', 'Podrás abrir cuentas y productos financieros en línea con tu CURP digital.')}
+<div style="position:absolute;left:90px;right:90px;top:540px;padding:38px 42px;background:#fff;box-shadow:0 6px 22px rgba(30,36,44,0.12);font-size:30px;line-height:1.5">
+<div style="font-size:22px;color:#5F7E9E;margin-bottom:16px">Lo demás · en corto</div>
+<div>• Negocios y gobierno tendrán que avisarte <span class="hl">qué formas de pago digital aceptan</span>.</div>
+<div style="margin-top:12px">• Si se cae el sistema, se vale pagar en efectivo o con cheque.</div>
+<div style="margin-top:12px">• Podrás abrir cuentas en línea con tu CURP digital.</div>
+<div style="margin-top:12px">• Todavía no es ley: falta el Senado y que se publique en el DOF.</div>
 </div>
-<div style="position: absolute; left: 80px; right: 80px; bottom: 130px; padding: 24px 30px; background: #D9B4A8; color: #1E242C; font-size: 27px; line-height: 1.4; transform: rotate(-1deg)"><b>Ojo:</b> todavía no es ley. Falta que la apruebe el Senado y se publique en el DOF.</div>
-{foot(SRC, 2, TOT, True)}
+{pie(2)}
 """
 
-p3 = cierre("¿Tu negocio ya", "cobra en digital?",
-            "Cada cobro digital queda registrado en tu banco. Te ayudo a que tu facturación y tu contabilidad cuadren con lo que cobras.",
-            "Agenda tu asesoría", "<b>Guárdalo</b> y compártelo con alguien que todavía solo acepta efectivo.",
-            "torres", "50% 40%", 3, TOT, "Torres de Monterrey con la Sierra Madre al fondo")
+# ---------- 03 Remate: salvia, sin foto ----------
+p3 = f"""
+<div class="serif" style="position:absolute;left:90px;right:90px;top:140px;font-size:66px;line-height:1.16">
+¿Y a ti en qué te pega?<br><br>
+Si cobras en digital, <span class="hlw">cada peso queda registrado en tu banco</span>.<br><br>
+Tu facturación y tus declaraciones tienen que cuadrar con lo que cobras. Mejor ordénate desde ahora.
+</div>
+<div style="position:absolute;left:90px;right:330px;bottom:190px;font-size:30px;line-height:1.45">
+Guárdalo para cuando salga en el DOF.<br>
+¿Dudas con tu negocio? <b>81 2758 0277</b>
+</div>
+<div style="position:absolute;right:90px;bottom:160px;transform:rotate(-6deg)">{LUPA}</div>
+{pie(3, "#2B3542")}
+"""
 
-(HERE / "Ecd-01.dc.html").write_text(page("Ley de Economía Digital · Portada", "", "#1E242C", p1, " background: #D9B4A8;"))
-(HERE / "Ecd-02.dc.html").write_text(page("Ley de Economía Digital · Qué cambia", "bg-sarga", "#F4F1EA", p2))
-(HERE / "Ecd-03.dc.html").write_text(p3)
+(HERE / "Ecd-01.dc.html").write_text(page("Ley de Economía Digital · Gancho", "#D9B4A8", p1))
+(HERE / "Ecd-02.dc.html").write_text(page("Ley de Economía Digital · Detalle", "#FFFDF8", p2))
+(HERE / "Ecd-03.dc.html").write_text(page("Ley de Economía Digital · Remate", "#A9C9A9", p3))
 print("ok")

diff --git a/recursos/historial.md b/recursos/historial.md
@@ -7,7 +7,7 @@ La tarea programada lee este archivo antes de crear un carrusel (para no repetir
 | 2026-10-09 | Deducciones personales | Ilustración tipo cooltura (v1) | — | — |
 | 2026-10-10 | Presentación formal: Bernardo Latorre (perfil, trayectoria, GGTZ) | Foto de Bernardo a todo lo ancho (oficina, camisa azul) + nombre grande abajo sobre degradado pizarra (motivo: retrato) | Pantalla dividida con foto; línea de tiempo; "8" gigante; chips de servicios; post-its sobre terracota | berny: oficina-camisa-azul-laptop, icpnl-muro-logo, icpnl-caso-2017-tercer-lugar, campana-tocando, deloitte-sillon-verde-1, deloitte-equipo-evento, foro-economico-fiscal-pose, icpnl-con-colega, icpnl-termo-sesion; cerro-de-la-silla-atardecer |
 | 2026-10-13 | Cierre fiscal 2026 | Foto a todo lo ancho (pareja con carta) + hoja rotada + sticker DIC 31 | Línea de tiempo + celular con captura del SAT; cuadrícula 2×2 + navegador | pareja-preocupada-carta, calculadora-escritorio, persona-calculadora-cuaderno, pilas-de-documentos, navidad-calle-mexicana-estrellas, monterrey-torres-sierra |
-| 2026-10-14 | Miércoles en 3 láminas: Ley de Economía Digital (aprobada por Diputados el 6 oct, pasa al Senado) | Fondo terracota liso + celular dibujado con QR y cobro + sello "PASA AL SENADO", título mitad izquierda (motivo: celular/QR, sin foto) | Celular con QR dibujado; 3 puntos numerados sobre sarga; banda "Ojo" de estatus | monterrey-torres-sierra |
+| 2026-10-14 | Miércoles en 3 láminas: Ley de Economía Digital (aprobada por Diputados el 6 oct, pasa al Senado) | Estilo Chismesito: fondo terracota liso, pregunta grande arriba + texto corrido con marcador + garabato de celular (motivo: texto/celular, sin foto) | Formato miércoles v2: láminas de color liso (terracota, marfil, salvia), recorte de hoja "en corto", garabatos de línea | — |
 | 2026-10-15 | RESICO | Fondo lino claro: billetes en polaroid grande arriba + sticker 1%–2.5% + título grande abajo sin tarjeta (motivo: dinero) | Tabla oscura con barras; fórmula en bloques; tres polaroids; ejemplo numérico | billetes-pesos-mexicanos, terminal-pago-ticket, comerciante-celular, mujer-laptop-sonriendo, mano-firmando-documento, persona-calculadora-cuaderno, cerro-de-la-silla-atardecer |
 | 2026-10-20 | 5 cosas que, como contador, nunca haría con mis impuestos (idea de Berny, ref. @taxfi_) | Fondo azul polvo liso con puntos + "5" gigante fantasma + hoja "Mi lista de NO" con tachas + sticker circular terracota (sin foto) | Índice numerado oscuro; ticket con sello FALSA; mito tachado vs realidad; chat de WhatsApp; dos cuentas lado a lado; recibo de ahorro | bolsas-de-compras, llaves-casa, taqueria-esquina, pago-tarjeta-terminal, monterrey-sierra-madre |
 | 2026-10-22 | Dinero que recibes y no paga ISR, parte 1 (idea de Berny, ref. @taxfi_) | Pantalla dividida: mitad sarga con título, mitad foto B/N (mujer pensativa) + notificación bancaria encima | Diagrama de flujo gravado/exento/no ingreso; árbol familiar; barra tope vs excedente; post-its | mujer-pensativa-bn, apreton-de-manos, familia-al-aire-libre, monedas-pila, llaves-casa, reunion-oficina, monterrey-torres-sierra |
